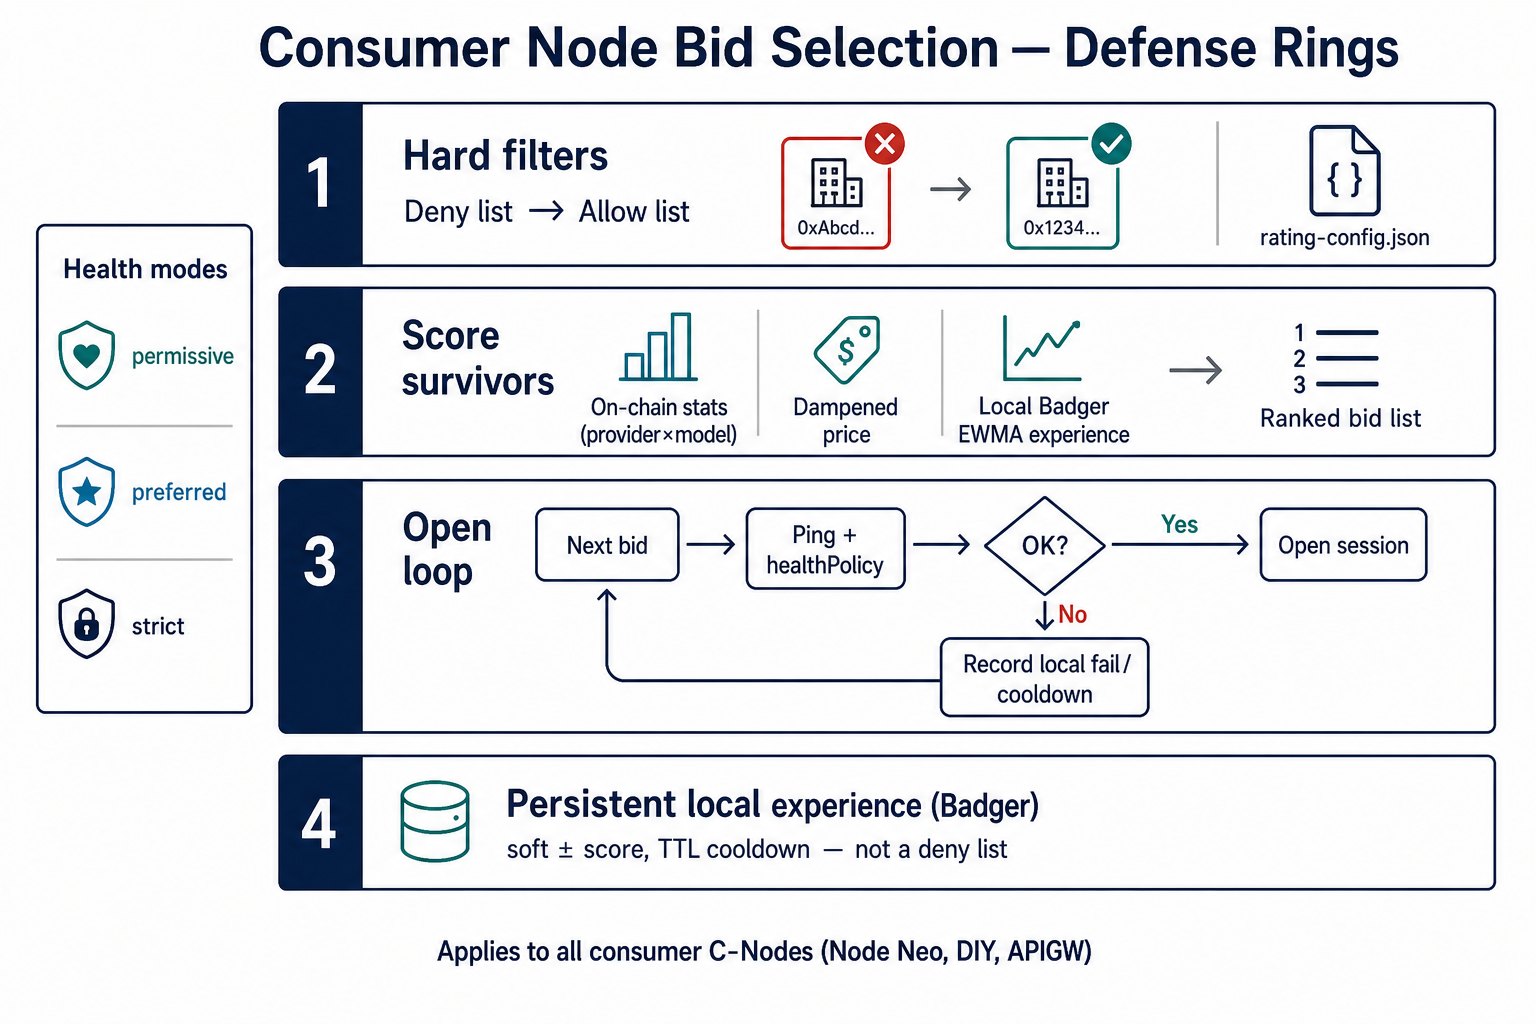
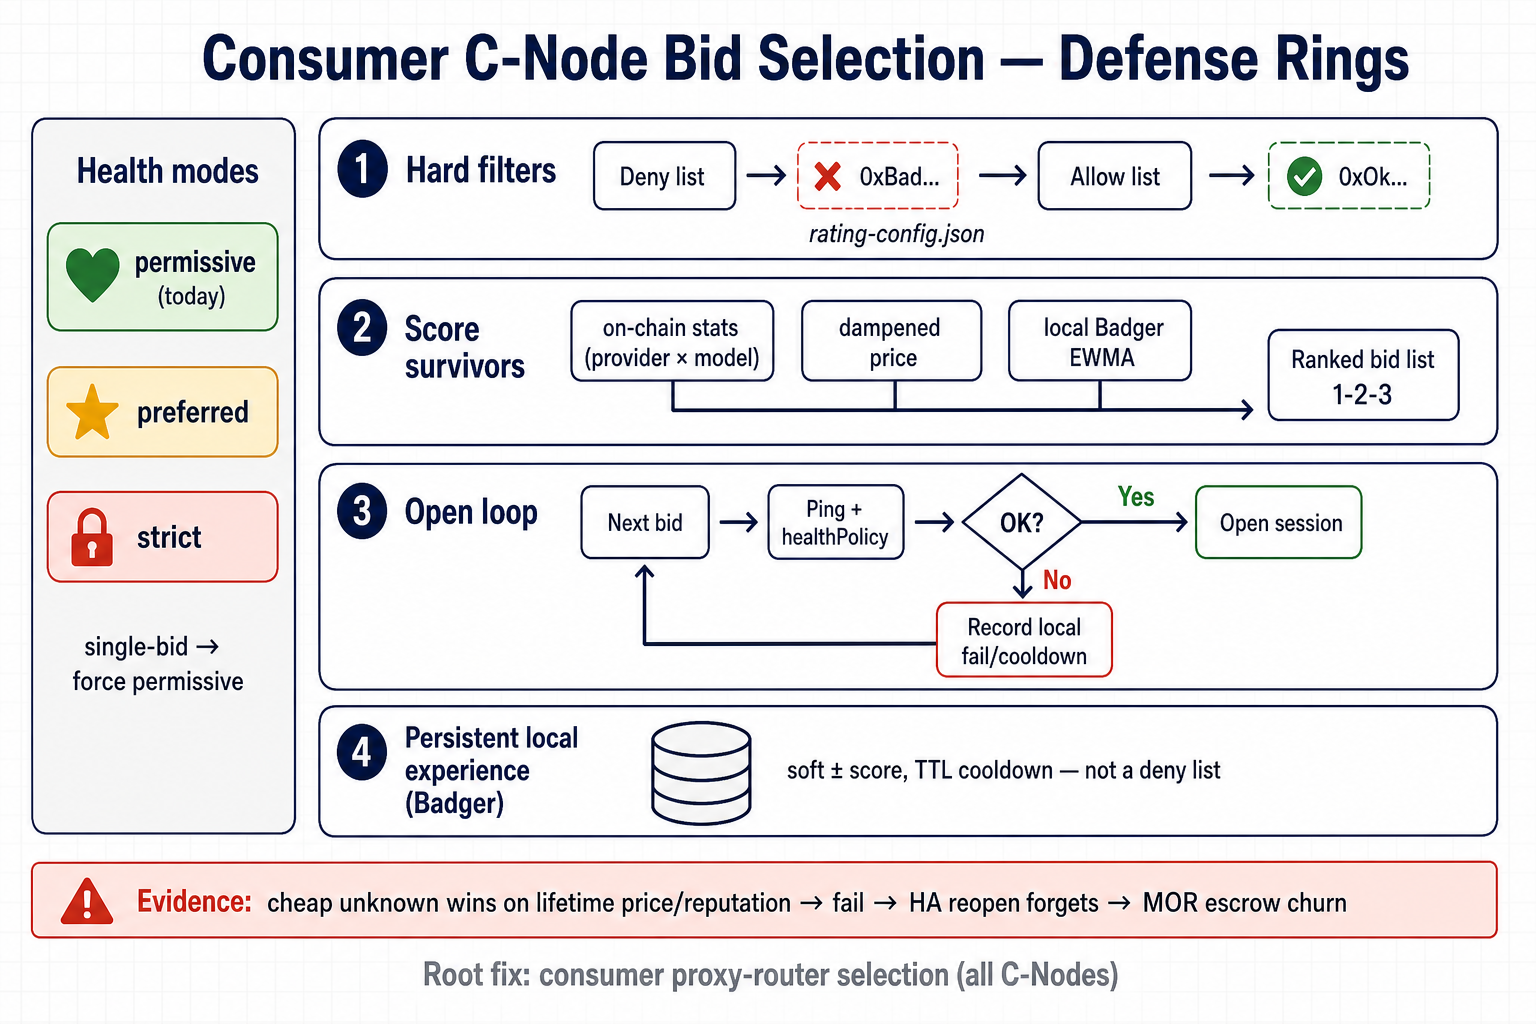
docs: reframe defense-rings design around selection root cause
Drop product-name scope (APIGW/NodeNeo). Lead with Jul 21–22 Qwen
evidence: cheap unknown wins on price/lifetime reputation, HA ping-pong,
MOR escrow churn — fix is C-Node rating, not client workarounds.

Changed region(s): [[0.0, 0.0, 1.0, 0.9688], [0.9688, 0.4688, 1.0, 0.6562], [0.9688, 0.125, 1.0, 0.25]]

diff --git a/.ai-docs/CNODE_RATING_DEFENSE_RINGS.md b/.ai-docs/CNODE_RATING_DEFENSE_RINGS.md
@@ -16,16 +16,18 @@
 
 ## TL;DR — Exec summary
 
-**Problem:** Consumer nodes pick bids with `score = quality / price` over **lifetime** on-chain `(provider, model)` stats. Cheap underbidders with high historical “success” (valid closeout receipts) win even when they are `unknown`/broken for live prompts. There is no denylist, no durable local memory of “this pair just failed *me*,” and the pre-open health ping is too lenient (`unknown` proceeds). Result: open → instant fail → (for HA clients) early-close / reopen churn and locked MOR — bad for Node Neo, DIY consumers, and the API Gateway’s dedicated C-Node alike.
+**Problem (root cause):** The consumer C-Node bid selection algorithm is flawed. It ranks with `score = quality / price` over **lifetime** on-chain `(provider, model)` stats. Cheap underbidders with high historical “success” (valid closeout receipts) win even when they are `unknown`/broken for live prompts. There is no denylist, no durable local memory of “this pair just failed *me*,” and the pre-open health ping is too lenient (`unknown` proceeds).
 
-**Proposal:** Keep selection **inside the consumer proxy-router** (network-wide, not APIGW-specific). Four rings:
+**Evidence (production HA consumer, 2026-07-21 → 07-22):** On **Qwen 2.5 7B**, the cheap `unknown` provider (`0x5A42…`) repeatedly won cold opens on price + lifetime reputation, failed instantly (p50 ≈ **4s** on Jul 22, **100%** early close, **0** TTFT), HA failover briefly used the serviceable peer (`0x5A37…`), then the next cold open **forgot** and returned to the cheap peer — ping-pong that escrowed MOR into open→fail→early-close churn and stressed the consumer wallet. See §1.2.
+
+**Proposal:** Fix selection **inside the consumer proxy-router** (every C-Node on the network). Four rings:
 
 1. **Hard deny / allow** in `rating-config.json`
 2. **Smarter scoring** of survivors (dampened price, drop stake & volume-duration, Bayesian success, soft newcomer prior, **local EWMA experience**)
 3. **Configurable health strictness** on the existing ping (`permissive` | `preferred` | `strict`), with a **single-bid leniency** caveat
 4. **Persistent local experience in Badger** — soft score bumps / short cooldowns, **not** an auto deny list
 
-**APIGW:** No new omit/active_models dependency for cold opens. Mid-prompt failure still uses today’s single `omitProvider` failover; the C-Node’s local experience then self-protects on subsequent opens.
+HA clients that omit a bad provider on mid-prompt failure remain useful, but they are **not** the root fix: without better C-Node ranking + local memory, cold opens keep re-selecting the same bad provider×model pair.
 
 **Ask:** Review/approve this design, then implement behind defaults that preserve today’s behavior (`permissive`, empty deny/allow, local experience off or neutral).
 
@@ -51,20 +53,40 @@ score = (w_tps·tpŝ + w_ttft·ttft̂ + w_dur·dur̂ + w_succ·succ² + w_stake
 - `providerAllowlist` exists; **no denylist**.
 - Pre-open ping skips only `unhealthy` | `tee_unverified` | `no_model`. **`unknown` / missing report proceeds.**
 
-### 1.2 Real-world failure pattern (Qwen 2.5 7B)
+### 1.2 Incident evidence — Qwen 2.5 7B (2026-07-21 / 07-22)
 
-Two on-chain bids (marketplace snapshot + Insights closes 2026-07-22 after housekeeping):
+Production HA consumer closes on Base (`segment` = gateway consumer wallet), model **Qwen 2.5 7B**. Two competing providers; the cheap peer wins ranking and fails open; HA briefly switches; cold open forgets.
 
-| Provider | Health (UI / self-report) | MOR/hr | On-chain-ish rank | Observed APIGW/C-Node behavior |
-|----------|---------------------------|--------|-------------------|--------------------------------|
-| `0x5A42…` (cheap IP) | **unknown** | ~0.00119 | **#1** (~2M score) | **114** early closes, **p50 ≈ 4s**, **0** TTFT |
-| `0x5A37…` (mordiem) | healthy / degraded (429) | ~0.0114 | #2 (~235k) | Worked for minutes, then capacity/429; early closes after real use |
+| Day (UTC) | Provider | Health (self-report / UI) | Closes | Early closes | p50 duration | TTFT |
+|-----------|----------|---------------------------|--------|--------------|--------------|------|
+| 2026-07-21 | `0x5A42…` (cheap) | **unknown** | 84 | **84 (100%)** | 75s | **0** samples with TTFT |
+| 2026-07-21 | `0x5A37…` (mordiem) | healthy / degraded (429) | 78 | 76 | **726s** | 65 with TTFT (avg ~2.1s) |
+| 2026-07-22 | `0x5A42…` (cheap) | **unknown** | 165 | **165 (100%)** | **4s** | **0** TTFT |
+| 2026-07-22 | `0x5A37…` (mordiem) | healthy / degraded (429) | 45 | 45 | **494s** | 27 with TTFT (avg ~2.9s) |
 
-Weight retunes alone **cannot** flip #1: price ratio ~9.6×; success ≈ 99.9% vs 100%; duration volume favors the cheap peer.
+**Two-day totals (same model, same consumer):**
 
-Ping-pong: cold open → cheap unknown → fail → (HA) omit once → mordiem → later fail → next cold open **forgets** → cheap again. **No durable self-defense.**
+| Provider | Closes | Early % | p50 duration | Pattern |
+|----------|--------|---------|--------------|---------|
+| `0x5A42…` | **249** | **100%** | **6s** | Wins cold open on **price + lifetime reputation**; never produces TTFT for this consumer |
+| `0x5A37…` | 123 | ~98% early* | **690s** | Actually serves for minutes; later capacity/429; HA early-closes after real use |
 
-### 1.3 Comparator (deepseek-v4-flash, 5 bids)
+\*Early-close rate on the serviceable peer is high because HA closes/reopens under load and policy — but duration/TTFT show it was **usable**, unlike `0x5A42…`.
+
+**Why the cheap peer stays #1:** marketplace score is dominated by linear price (~9–10× cheaper) plus lifetime success/duration volume. Weight retunes alone cannot flip the order.
+
+**Ping-pong (the MOR-lock pattern):**
+
+```text
+cold open → cheap unknown (#1) → fail in seconds (no TTFT)
+     → HA omit once → open serviceable peer → works / later 429
+     → next cold open has no durable memory → cheap unknown again
+     → escrowed MOR cycles through open → fail → early-close
+```
+
+That churn is what locked/stressed the HA consumer’s MOR balance. **HA omit is a band-aid; the selection algorithm is the root cause.**
+
+### 1.3 Comparator (deepseek-v4-flash, multi-bid)
 
 Healthy cheap high-TPS peer is already #1; degraded expensive peer is last. Cold-open ranking is mostly fine. Pain is **sticky memory after mid-session failure**, not “unknown underbidder always wins.” Same defense rings still help; they don’t invert a true quality leader.
 
@@ -72,10 +94,10 @@ Healthy cheap high-TPS peer is already #1; degraded expensive peer is last. Cold
 
 | In scope (this design) | Out of scope |
 |------------------------|--------------|
-| All consumer C-Nodes (Node Neo, DIY, APIGW’s router) | APIGW reading `active.mor.org` for cold opens |
+| Consumer proxy-router bid selection for **all** C-Nodes | Client-only denylists outside `rating-config` |
 | `rating-config` + Badger local experience | Multi-`omitProviders[]` (optional later) |
 | Using existing ping / model health report | On-chain “recent stats” contract upgrade |
-| Soft local EWMA (not shared gossip) | Replacing gateway failover |
+| Soft local EWMA (not shared gossip) | Replacing HA failover omit (keep as-is for mid-prompt) |
 
 ---
 
@@ -120,9 +142,9 @@ If after hard filters **only one bid** remains (or only one peer for the model):
 
 Document in config as `healthPolicySingleBid: "permissive"` (fixed or default).
 
-**Qwen under `preferred`:** 5A42 unknown skipped → mordiem tried.  
+**Qwen under `preferred`:** `0x5A42` unknown skipped → `0x5A37` tried.  
 **Qwen under `strict`:** only if mordiem reports `healthy`; if mordiem is `degraded`, sole remaining path should still open via single-bid leniency **or** operator accepts outage — prefer leniency when it is the only bid.  
-**deepseek under `preferred`/`strict`:** healthy pack remains; degraded p2 skipped only in `strict`.
+**deepseek under `preferred`/`strict`:** healthy pack remains; degraded peer skipped only in `strict`.
 
 ### 2.3 Scoring survivors (on-chain + local)
 
@@ -151,13 +173,9 @@ Wiping Badger (corruption recovery / fresh volume) = cold start; impact acceptab
 
 Soft only: young provider / new bid with thin samples gets a **small** boost so they can be tried and, if reliable, climb quickly. Not a permanent handicap for incumbents with good local+chain signal; not “bully new entrants away.”
 
-### 2.5 APIGW interaction
+### 2.5 HA clients and mid-prompt failure
 
-If the C-Node implements the above well:
-
-- **Cold opens:** APIGW does not need active.mor.org bid filtering or multi-omit.  
-- **Mid-prompt failure:** APIGW keeps today’s failover + single `omitProvider` for that reopen; C-Node records local fail on the omitted provider×model and self-protects afterward.  
-- Optional later: multi-omit — only if product still needs it.
+Keep existing single-`omitProvider` (or equivalent) for mid-prompt failover. After omit, the C-Node should record local fail on that provider×model so the **next cold open** does not immediately re-pick the same bad pair. Phase 1 does **not** require client-side bid filtering against external health UIs — the C-Node makes the smart decision.
 
 ---
 
@@ -217,7 +235,7 @@ Update `rating-config-schema.json`, `docs/reference/rating-config.mdx`, and unit
 
 ## 5. Validation scenarios
 
-### 5.1 Qwen 2.5 7B (2 providers)
+### 5.1 Qwen 2.5 7B (2 providers) — matches §1.2 evidence
 
 | Config | Expected cold-open first try |
 |--------|------------------------------|
@@ -225,7 +243,7 @@ Update `rating-config-schema.json`, `docs/reference/rating-config.mdx`, and unit
 | `preferred` + local off | `0x5A37` (skip unknown while degraded/healthy peer exists) |
 | After forced fail on 5A42 with local on | Cooldown / penalty → next opens prefer 5A37 without deny list |
 
-### 5.2 deepseek-v4-flash (5 providers)
+### 5.2 deepseek-v4-flash (multi providers)
 
 | Config | Expected |
 |--------|----------|
@@ -253,7 +271,8 @@ Constraints:
 - Preserve today’s behavior when using default config (permissive health,
   empty deny/allow, priceExponent 1.0, localExperience.enabled false,
   current weight sums = 1).
-- Do NOT add APIGW-only active.mor.org cold-open filtering in this work.
+- Root fix is proxy-router selection — do NOT depend on external HA client
+  bid filtering for cold opens.
 - Do NOT make local experience a permanent deny list — soft EWMA + optional
   cooldown only; persist in existing Badger (PROXY_STORAGE_PATH).
 - Drop stake from scoring influence (weight 0 / ignore); stop using
@@ -266,13 +285,16 @@ Constraints:
 - Add focused tests for: Qwen-like unknown+healthy/degraded pair under
   preferred; single-bid unknown still opens; local cooldown deprioritizes
   without removing from allow set.
+- Use §1.2 evidence as the acceptance narrative: cheap unknown must not
+  win cold open under preferred when a reported peer exists; after fail,
+  Badger experience must prevent immediate re-pick.
 
 Validate:
 - go test ./internal/rating/... and relevant blockchainapi tests
 - Manual or integration: with preferred policy, unknown peer skipped when
   a reported peer exists; after simulated fail, Badger key appears and
   ranking shifts until half-life/cooldown elapses
-- Confirm APIGW failover omit path still works unchanged
+- Confirm existing mid-prompt omit/failover path still works unchanged
 
 Deliver a small PR series to origin/dev if possible:
   (1) schema + denylist + healthPolicy gating
@@ -284,7 +306,7 @@ Deliver a small PR series to origin/dev if possible:
 
 ## 7. Open questions (non-blocking)
 
-1. Exact default half-lives for prod vs Node Neo presets.  
+1. Exact default half-lives for prod presets.  
 2. Whether first-token / prompt failure inside proxy-router should update EWMA (stronger self-defense) or only open/ping failures in v1.  
 3. Future: on-chain windowed stats (contract) — complementary, not required for this design.  
 4. Future: `omitProviders[]` — only if single omit + local EWMA proves insufficient for HA clients.
@@ -293,4 +315,4 @@ Deliver a small PR series to origin/dev if possible:
 
 ## 8. Decision ask
 
-Approve this design for implementation on `dev` (proxy-router). No APIGW changes required for phase 1 beyond existing failover `omitProvider`.
+Approve this design for implementation on `dev` (proxy-router). Phase 1 is the C-Node selection algorithm + Badger local experience; HA mid-prompt omit stays as today.
